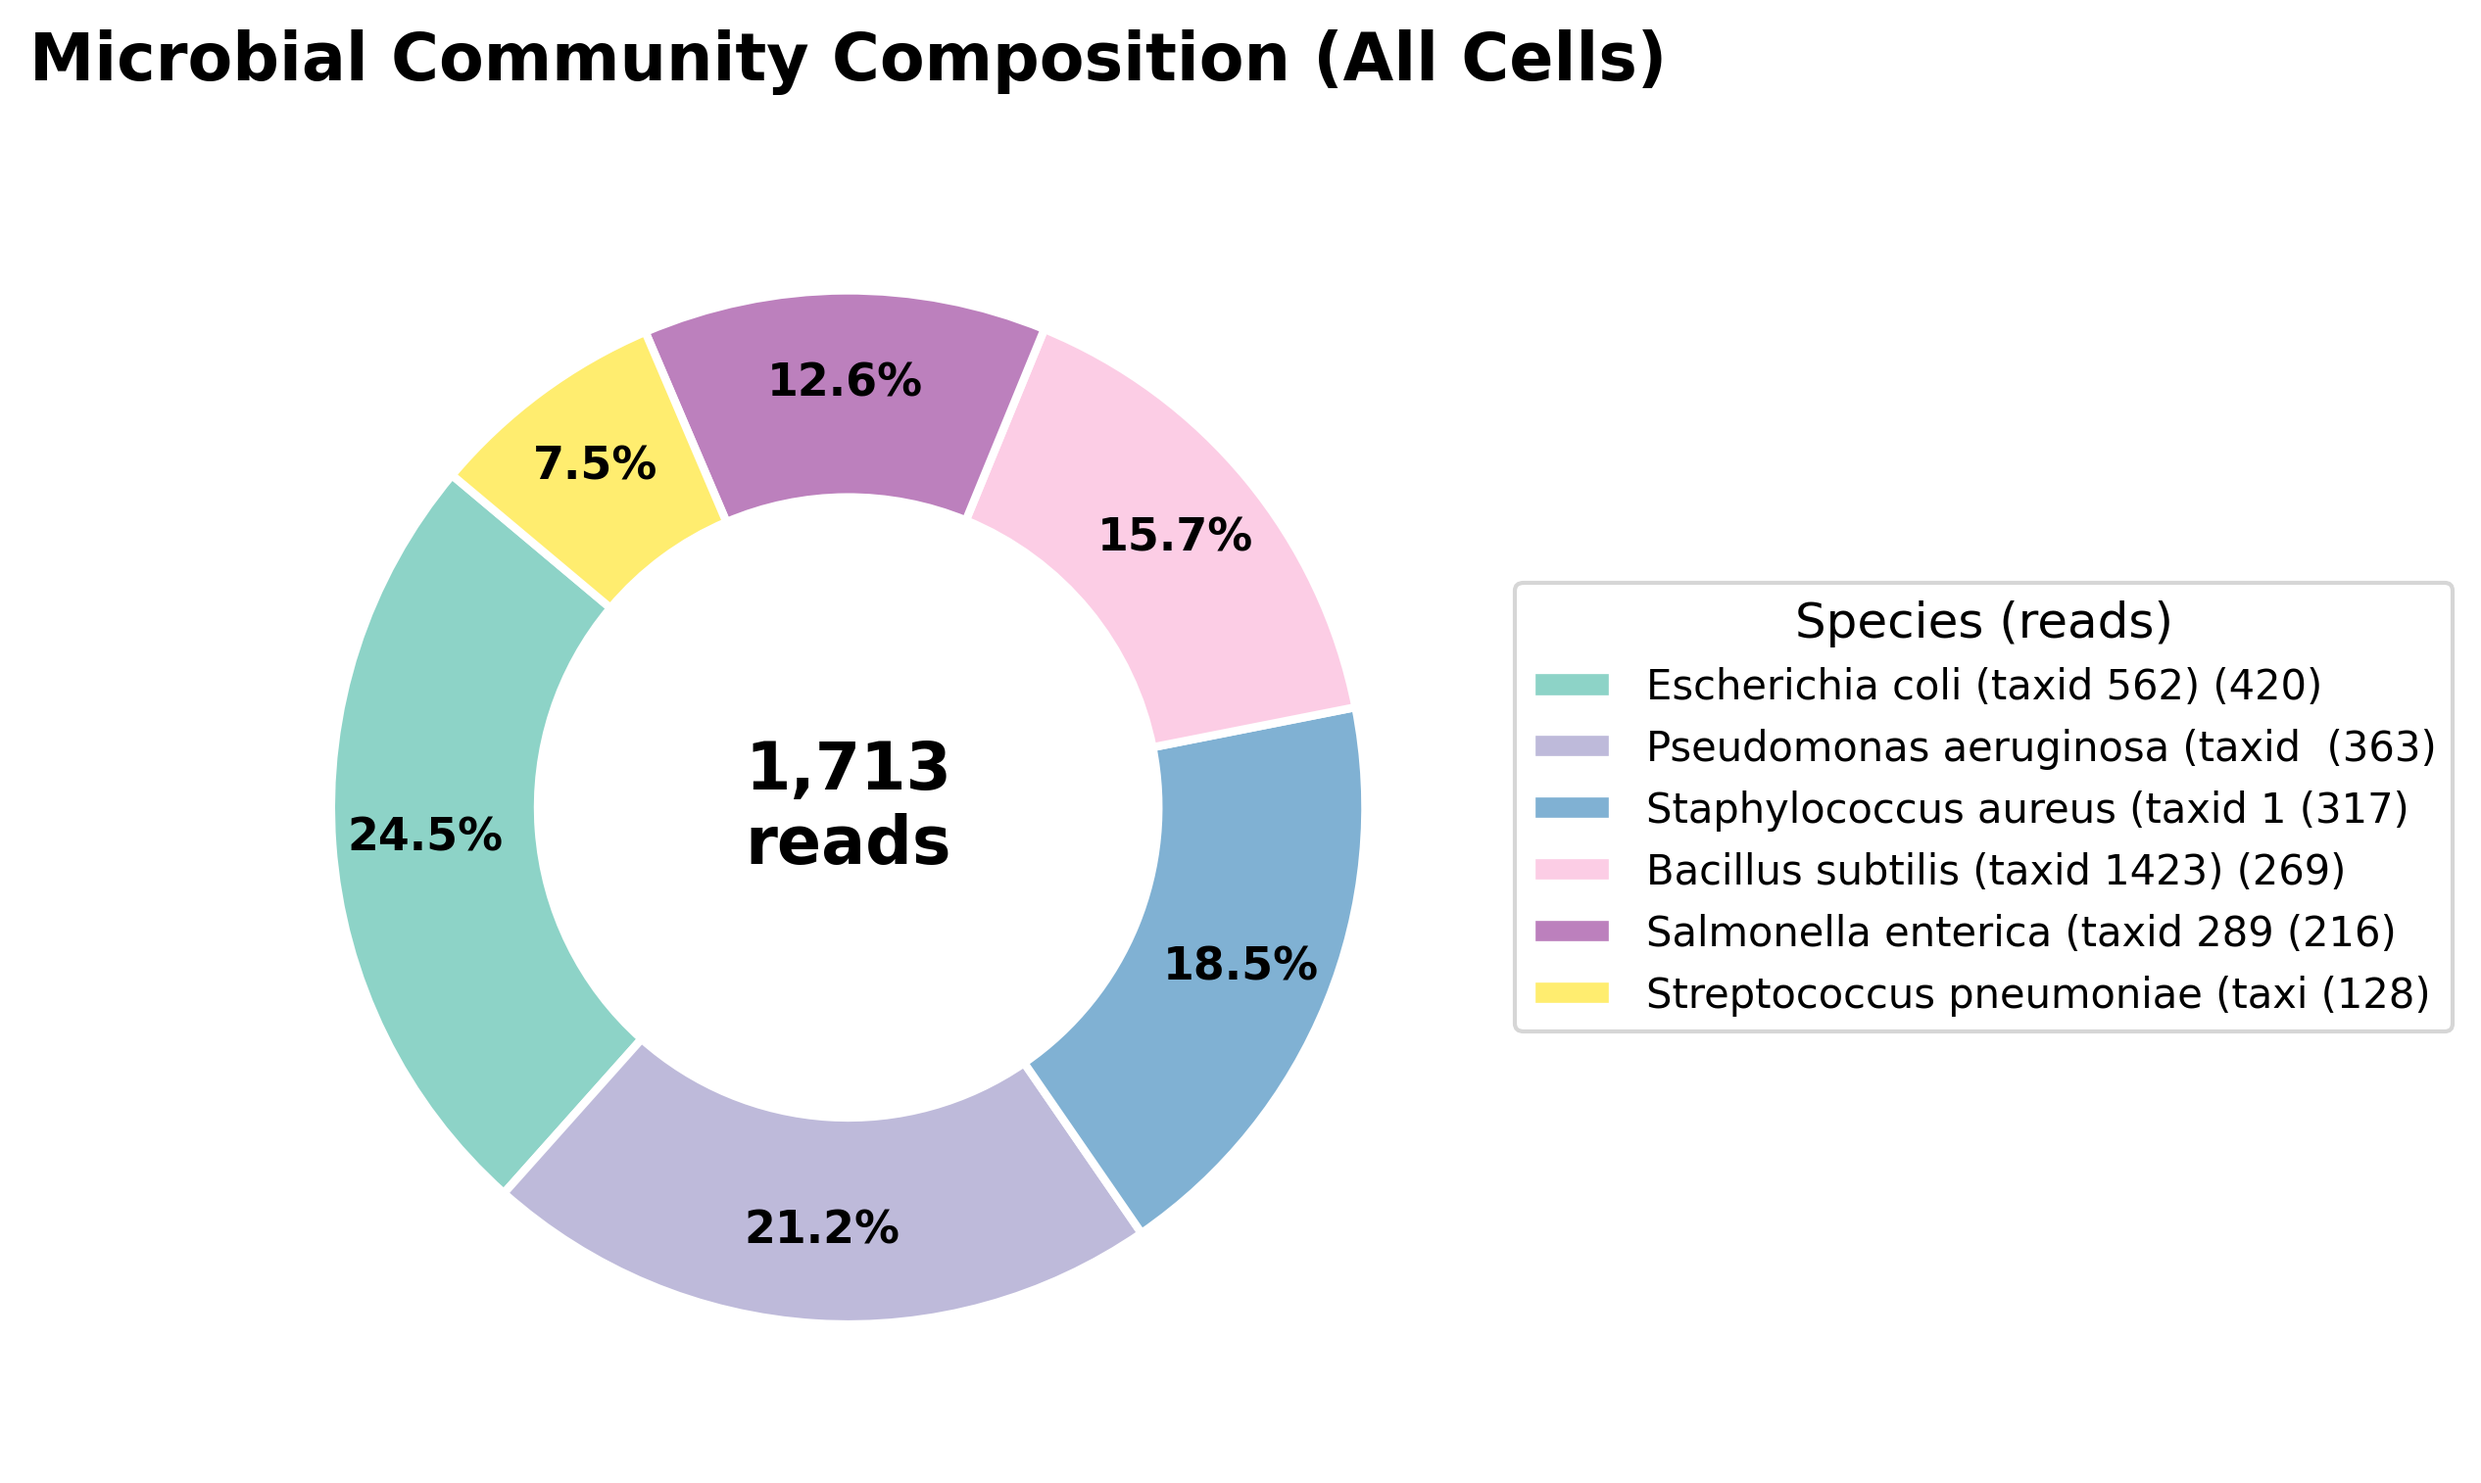
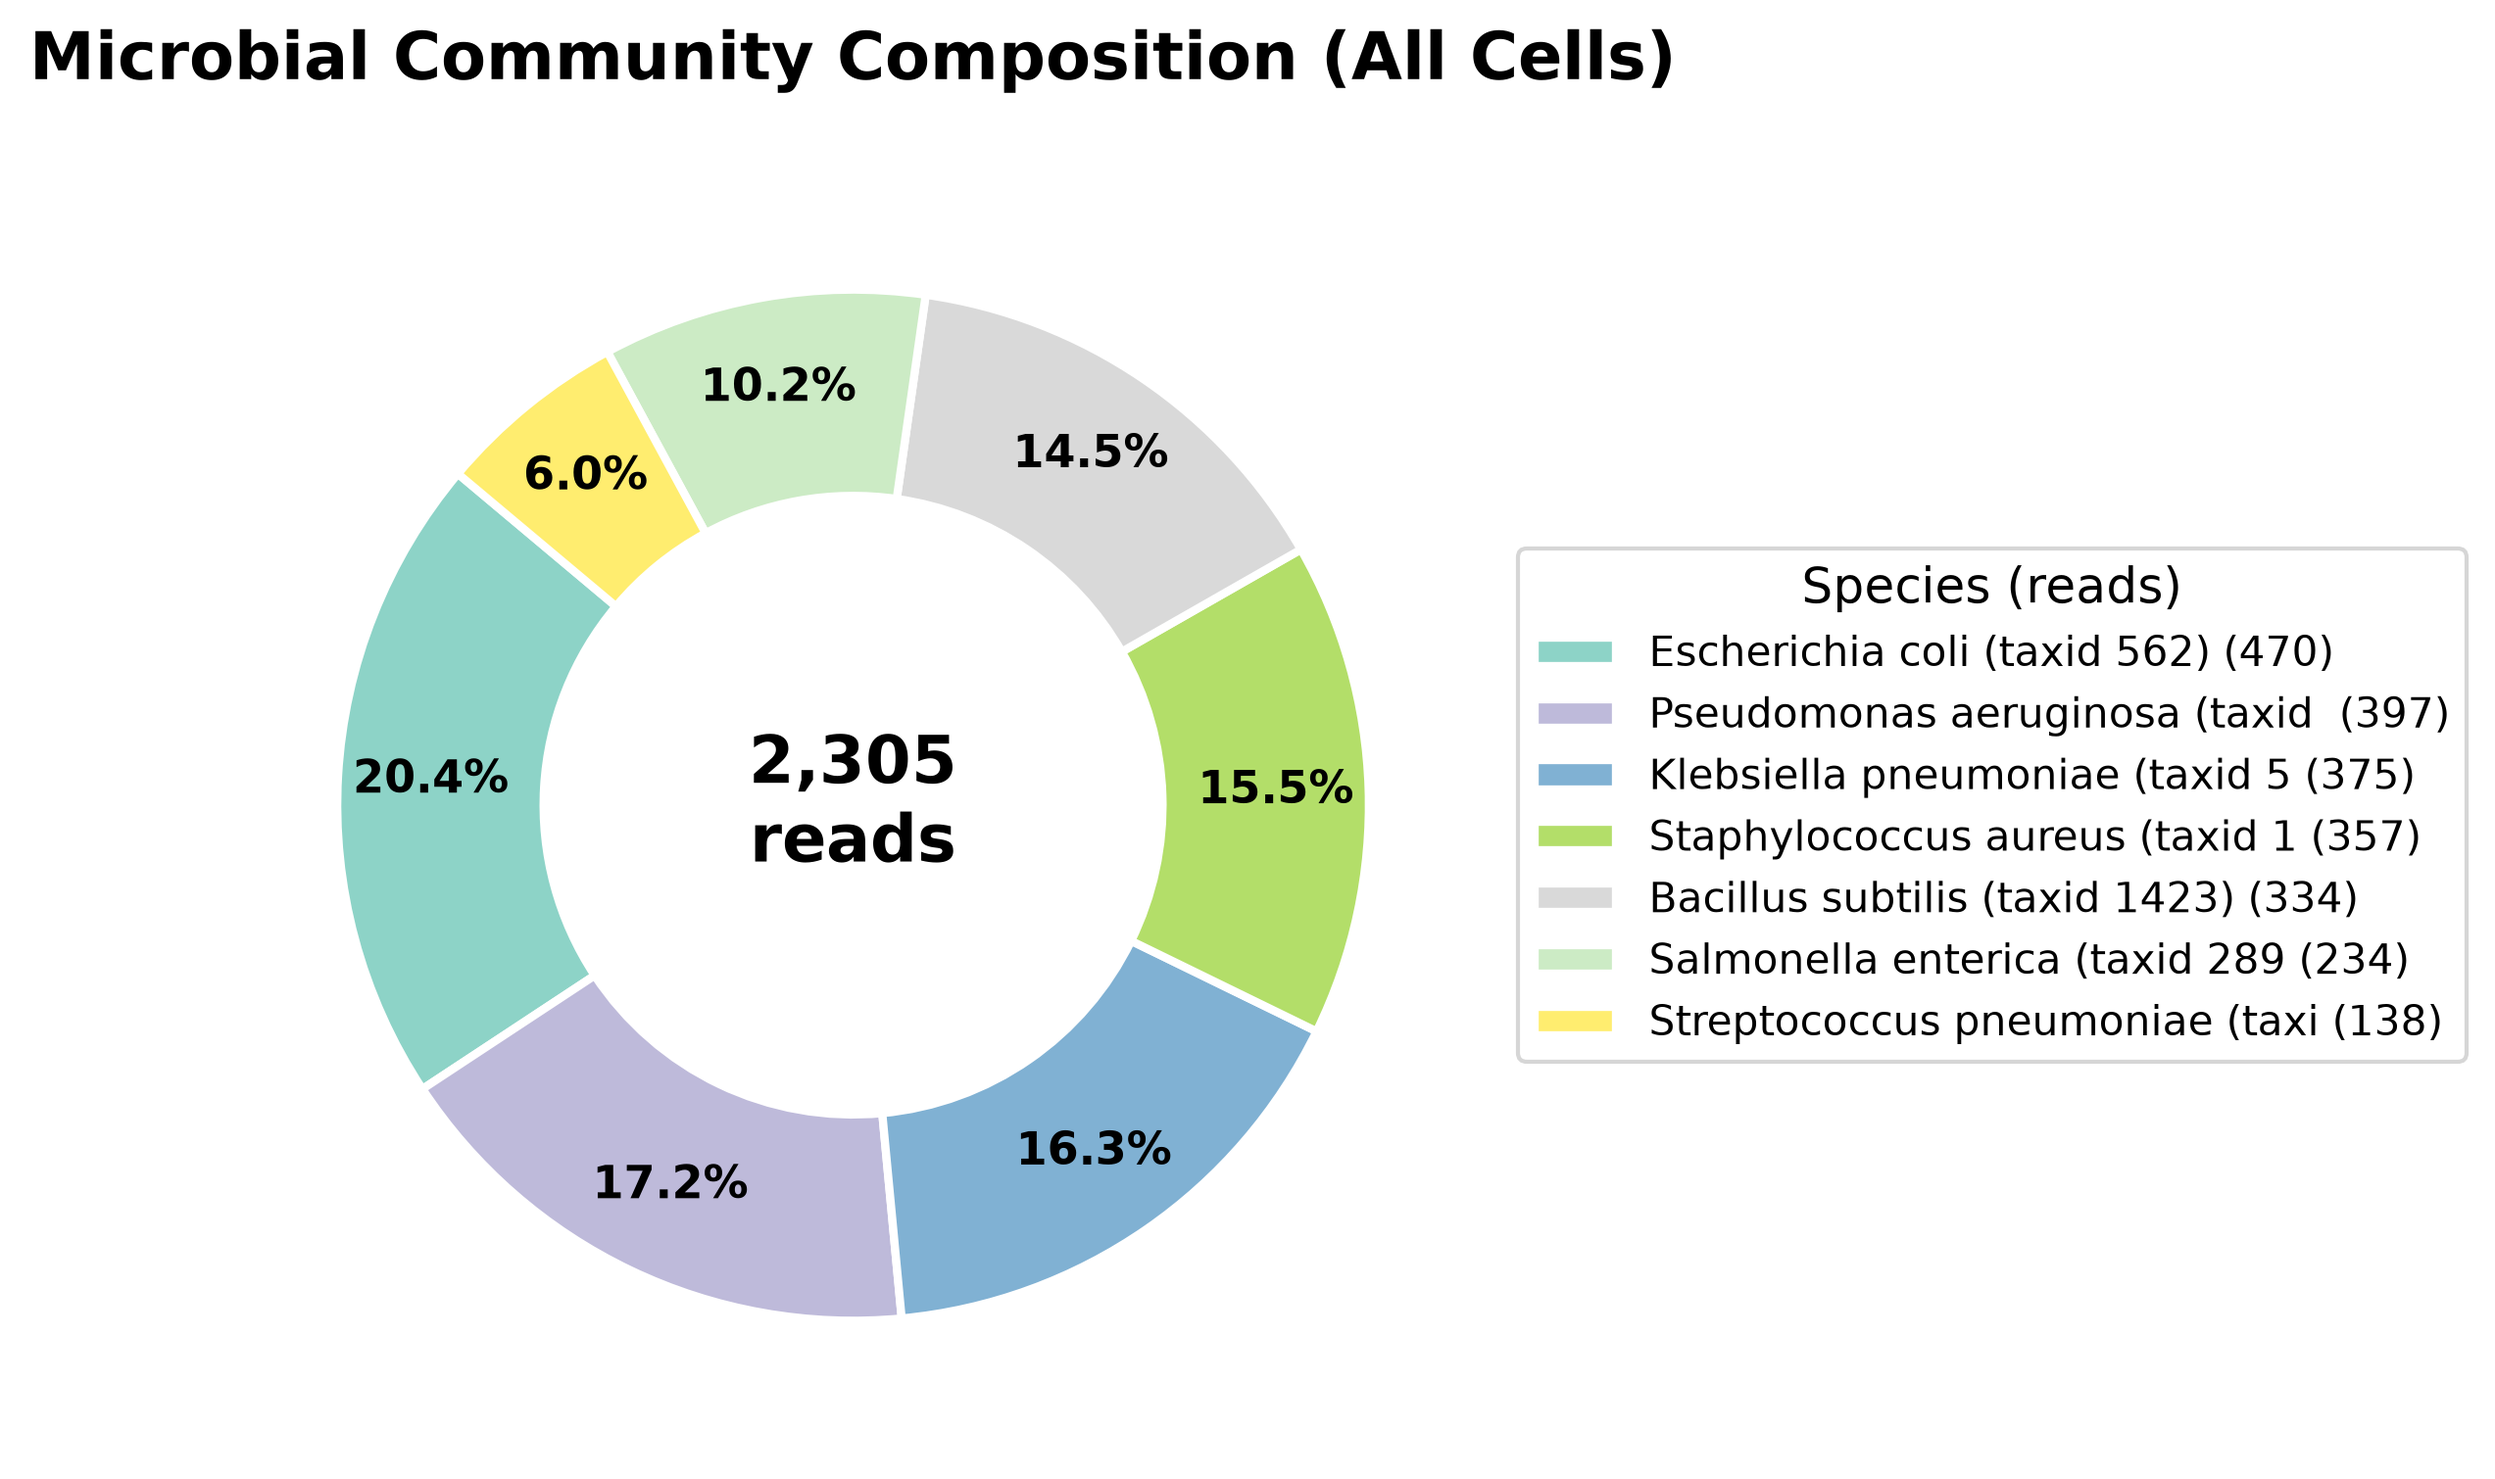
20260722 0030 commit

diff --git a/README.md b/README.md
@@ -334,7 +334,7 @@ celljanus scrnaseq \
     --read2 testdata/scrnaseq/scrna_R2.fastq.gz \
     --kraken2-db testdata/refs/kraken2_testdb \
     --output-dir test_results/scrnaseq \
-    --confidence 0.50 \
+    --confidence 0.20 \
     --barcode-mode 10x \
     --min-reads 1
 ```
@@ -356,20 +356,21 @@ celljanus scrnaseq \
 |--------|-------|
 | Input reads | 15,000 |
 | Cells With Microbe (passing --min-reads 1) | 300 |
-| Species detected | 6 |
-| Total microbial reads | 1,713 |
-| Mean reads / cell | 5.71 |
+| Species detected | 7 |
+| Total microbial reads | 2,305 |
+| Mean reads / cell | 7.7 |
 
 | Species | Reads | Cells | Prevalence |
 |---------|------:|------:|-----------:|
-| *Escherichia coli* | 420 | 211 | 70.3% |
-| *Pseudomonas aeruginosa* | 363 | 217 | 72.3% |
-| *Staphylococcus aureus* | 317 | 196 | 65.3% |
-| *Bacillus subtilis* | 269 | 177 | 59.0% |
-| *Salmonella enterica* | 216 | 132 | 44.0% |
-| *Streptococcus pneumoniae* | 128 | 99 | 33.0% |
+| *Escherichia coli* | 470 | 227 | 75.7% |
+| *Pseudomonas aeruginosa* | 397 | 225 | 75.0% |
+| *Klebsiella pneumoniae* | 375 | 211 | 70.3% |
+| *Staphylococcus aureus* | 357 | 202 | 67.3% |
+| *Bacillus subtilis* | 334 | 200 | 66.7% |
+| *Salmonella enterica* | 234 | 140 | 46.7% |
+| *Streptococcus pneumoniae* | 138 | 106 | 35.3% |
 
-> *Note: The scRNA-seq mode test confidence default is `--confidence 0.50`.*
+> *Note: The default confidence value for the scRNA-seq mode test is `--confidence 0.20`.*
 
 <br />
 
